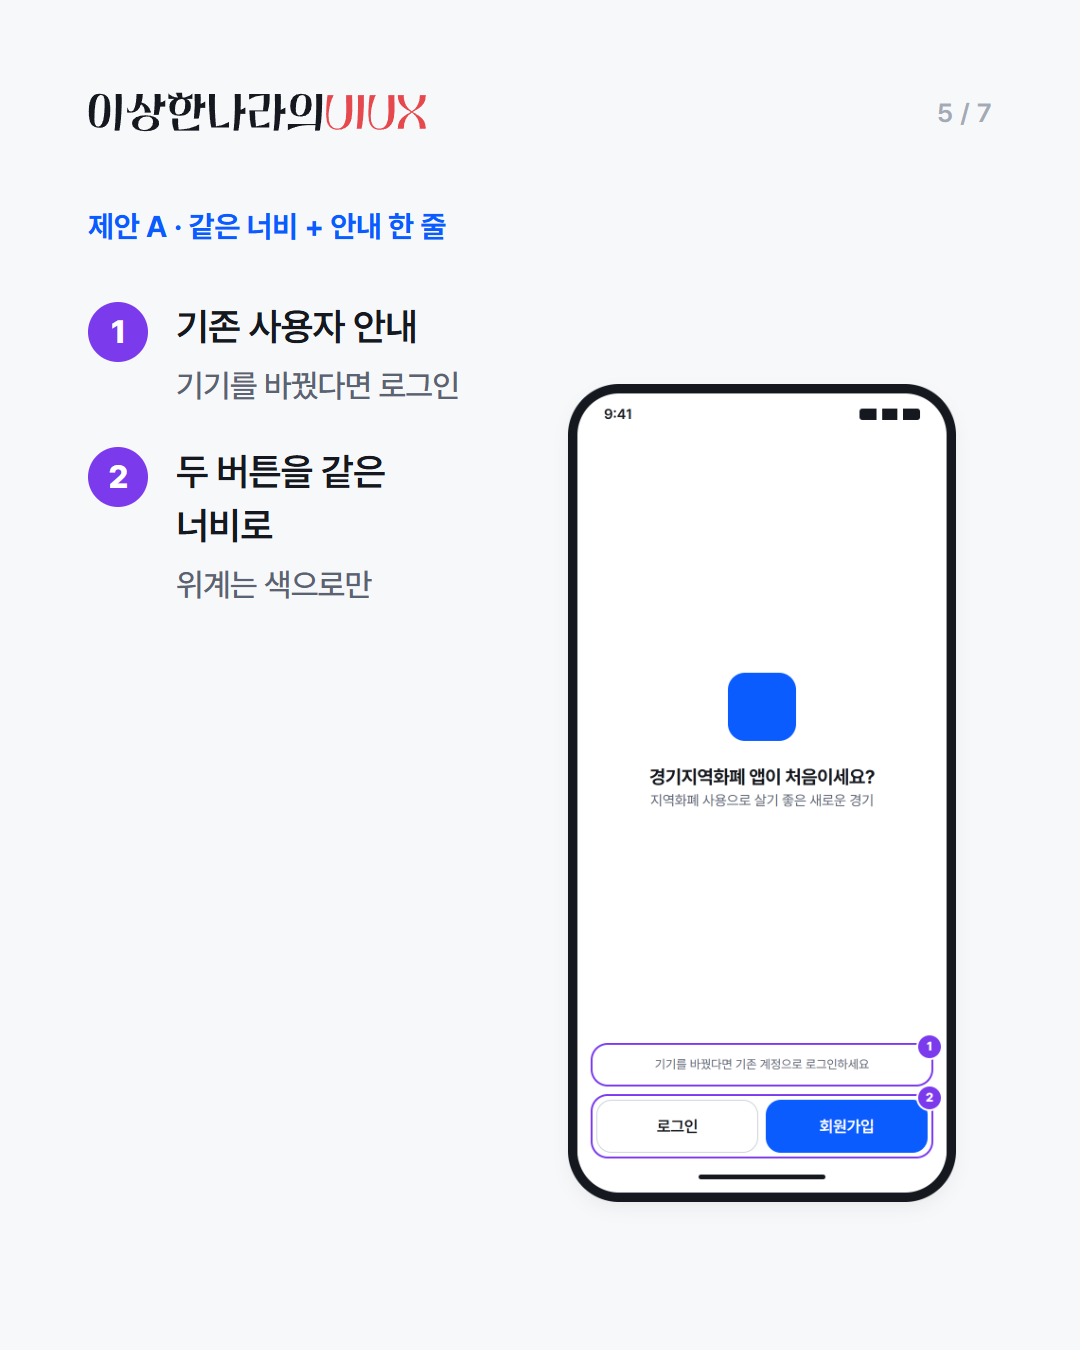
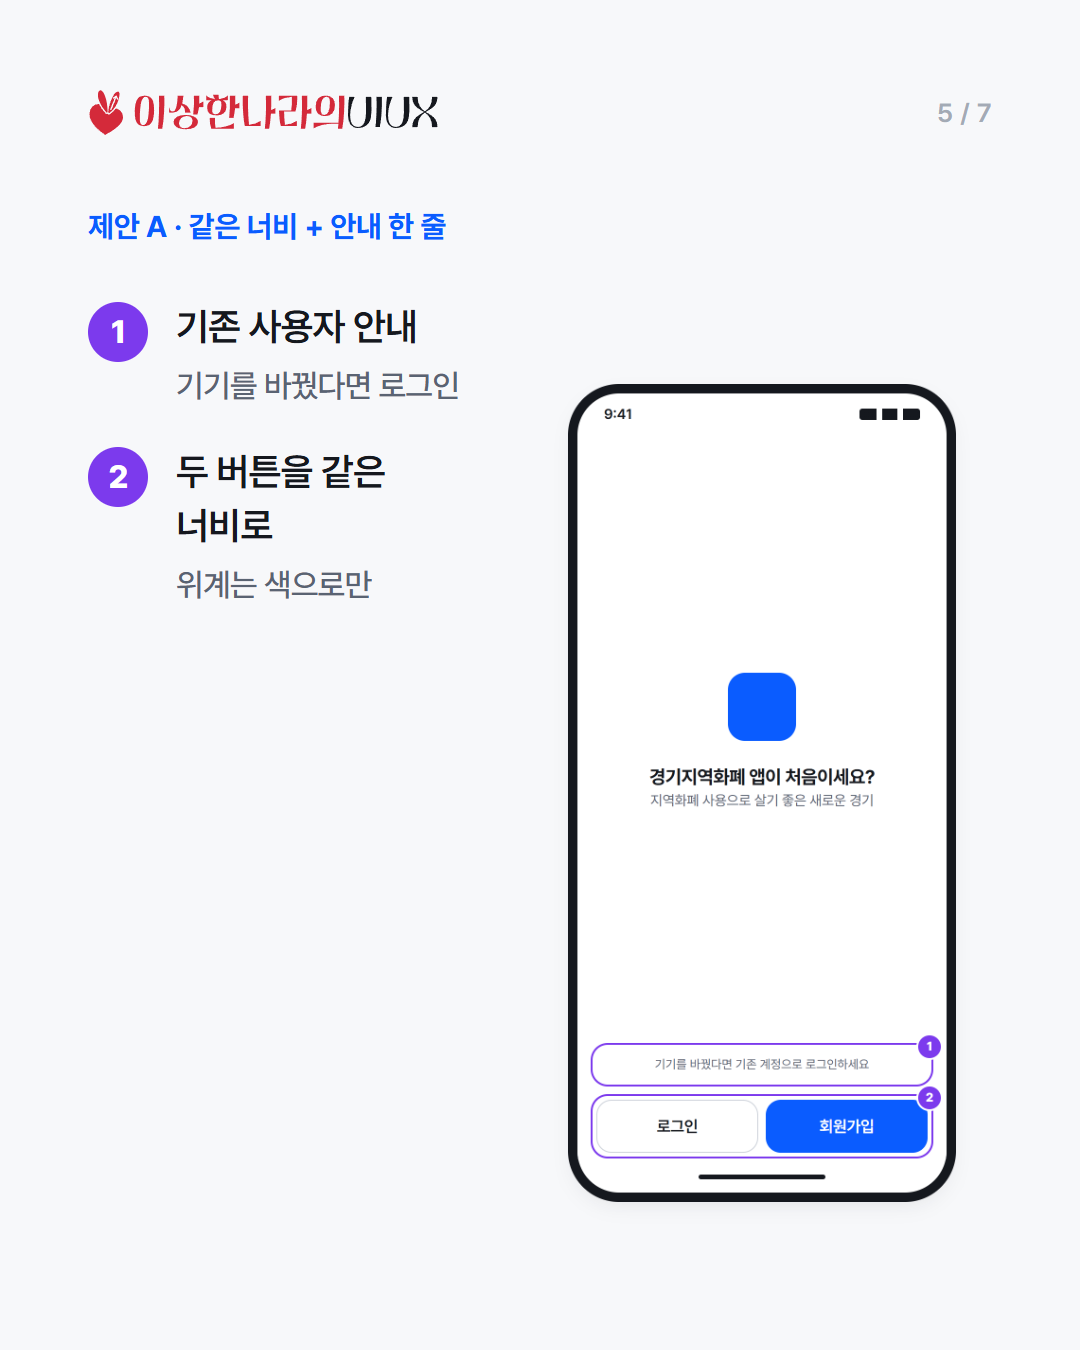
브랜드: 하트 토끼 심볼 + 워드마크 로고
- kit/symbol.svg: GPT 시안 3번을 단순화 — 마름모 제거, 붉은색 한 가지, 비대칭 하트, 오른쪽 귀에 커서 화살표
- tools/make-brand.mjs: 심볼 + 학교안심 마법사 워드마크 → logo.svg / logo-short.svg
- --logo-accent #D42A3A, 인스타 프로필 profile.png (빨강 바탕 흰 심볼)

Claude-Session: https://claude.ai/code/session_0142oRkXZEugmTBAN4CvUHKQ

Changed region(s): [[0.0611, 0.0622, 0.3972, 0.0933]]

diff --git a/kit/cards.css b/kit/cards.css
@@ -11,8 +11,8 @@ body { background: #fff; }
 
 /* 머리: 로고 · 쪽수 */
 .cp-head { display: flex; align-items: center; justify-content: space-between; height: 48px; flex: none; }
-.cp-logo svg { height: 40px; width: auto; display: block; }
-.cp-logo { color: var(--text-strong); --logo-accent: #e5484d; }
+.cp-logo svg { height: 48px; width: auto; display: block; }
+.cp-logo { color: var(--text-strong); --logo-accent: #d42a3a; }
 .dark .cp-logo, .blue .cp-logo { color: #fff; }
 .blue .cp-logo { --logo-accent: #fff; }
 .cp-page { font-size: 26px; font-weight: 600; color: var(--text-hint); letter-spacing: .02em; }

diff --git a/kit/tokens.css b/kit/tokens.css
@@ -63,7 +63,7 @@
   --anno-fix-weak: rgba(124, 58, 237, .10);
 
   /* ── 로고 ── */
-  --logo-accent: #e5484d;
+  --logo-accent: #d42a3a;
 
   /* ── 간격 (4pt) ── */
   --s-1: 4px;  --s-2: 8px;  --s-3: 12px; --s-4: 16px;

diff --git a/kit/DESIGN.md b/kit/DESIGN.md
@@ -5,7 +5,7 @@
 
 - 진입 CSS: `kit/wire.css` (tokens → components → annotate)
 - 눈으로 보는 카탈로그: `kit/components.png` (원본 `kit/components.html`)
-- 로고: `kit/logo.svg`(이상한나라의UIUX) · `kit/logo-short.svg`(INAU) — 학교안심 마법사(OFL) 아웃라인, 영문은 `--logo-accent`
+- 로고: `kit/symbol.svg`(하트 토끼: 비대칭 하트 + 오른쪽 귀 커서 화살표) + 워드마크(학교안심 마법사, OFL) → `node tools/make-brand.mjs <폰트>` 가 `kit/logo.svg`(이상한나라의UIUX) · `kit/logo-short.svg`(INAU) 생성. 색: 심볼·한글 `--logo-accent` #D42A3A, 영문 잉크(currentColor). 인스타 프로필 `kit/profile.png`
 
 ## 1. 색
 
